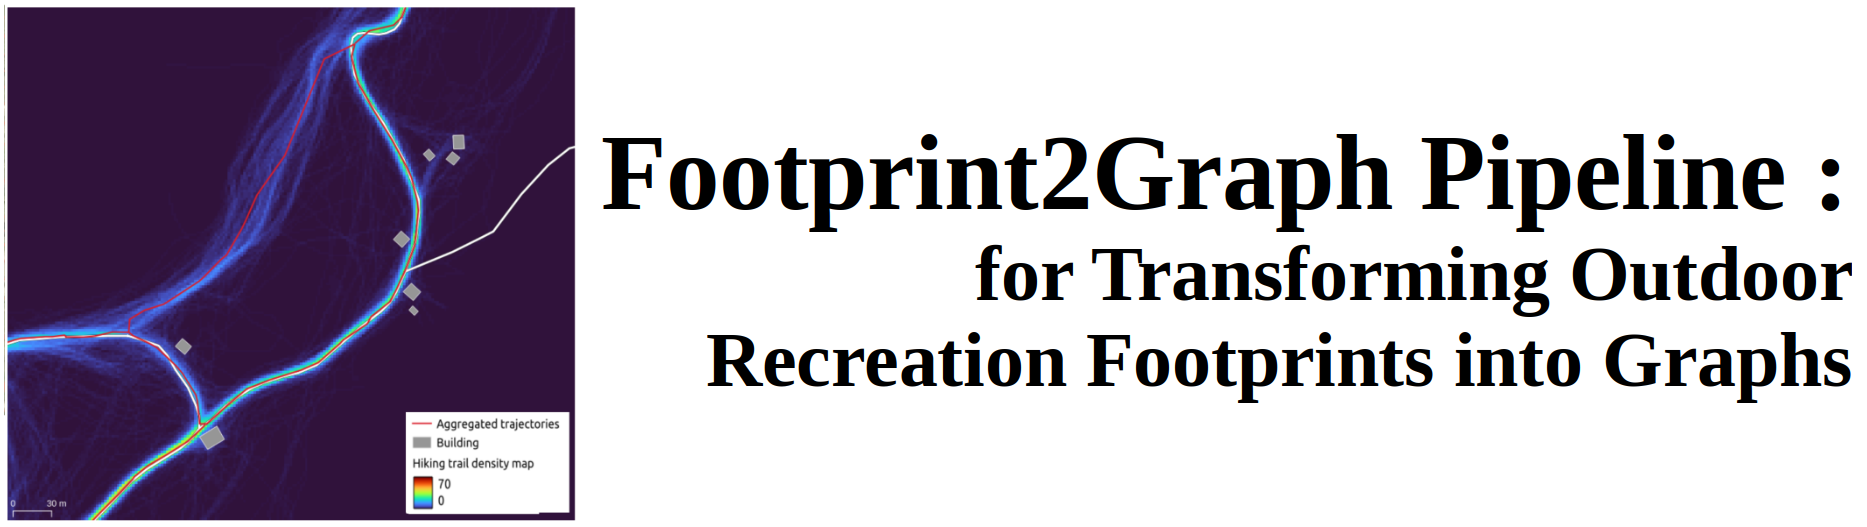
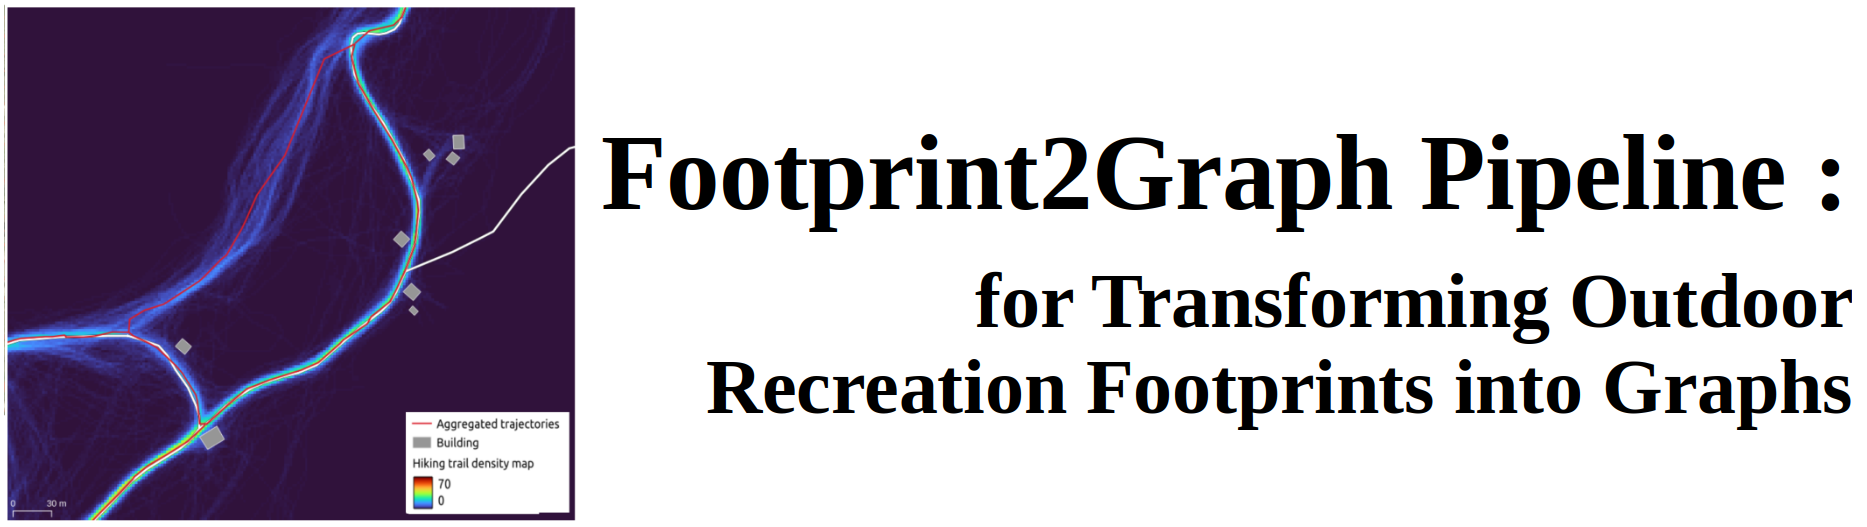
refactoring

Changed region(s): [[0.3728, 0.4554, 0.9941, 0.8197]]

diff --git a/README.md b/README.md
@@ -2,7 +2,7 @@
 
 <p align="center">
 <table style="border:none;border:0;width:60%"><tr>
-  <td align="center"><img width="800px" src="https://github.com/umrlastig/footprint2graph/blob/main/doc/source/img/footprint2graph.png" /></td>
+  <td align="center"><img width="700px" src="https://github.com/umrlastig/footprint2graph/blob/main/doc/source/img/footprint2graph.png" /></td>
 </tr></table>
 </p>
 
